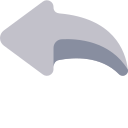
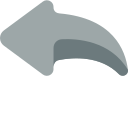
removed unnecessary png

diff --git a/pages/settings/about/index.js b/pages/settings/about/index.js
@@ -13,7 +13,7 @@ const AboutUs = () => {
         <Heading1>About Glow</Heading1>
         <Link href="/settings">
           <a className={styles.doneLink}>
-            <img src="/buttonIcons/reply1.png" />
+            <img src="/buttonIcons/reply.png" />
           </a>
         </Link>
         <img src="/pageBackgrounds/banana.png" className={styles.banana} />

diff --git a/components/FeedbackForm/index.js b/components/FeedbackForm/index.js
@@ -13,7 +13,7 @@ const FeedbackForm = () => {
     <form className={styles.container} action="/settings" mode="post">
       <Link href="/settings">
         <a className={styles.doneLink}>
-          <img src="/buttonIcons/reply1.png" />
+          <img src="/buttonIcons/reply.png" />
         </a>
       </Link>
       <label htmlFor="subject">Subject</label>

diff --git a/components/ChangePasswordForm/index.js b/components/ChangePasswordForm/index.js
@@ -29,7 +29,7 @@ const ChangePasswordForm = () => {
     <form className={styles.container}>
       <Link href="/settings">
         <a className={styles.doneLink}>
-          <img src="/buttonIcons/reply1.png" />
+          <img src="/buttonIcons/reply.png" />
         </a>
       </Link>
       <input style={{ display: "none" }} autoComplete="email" />

diff --git a/components/ChangeGoalForm/index.js b/components/ChangeGoalForm/index.js
@@ -32,7 +32,7 @@ const ChangeGoalForm = ({ user }) => {
     <div className={styles.container}>
       <Link href="/settings">
         <a className={styles.doneLink}>
-          <img src="/buttonIcons/reply1.png" />
+          <img src="/buttonIcons/reply.png" />
         </a>
       </Link>
       <div className={styles.numberPickerContainer}>

diff --git a/components/SettingsTopInfo/index.js b/components/SettingsTopInfo/index.js
@@ -13,7 +13,7 @@ const SettingsTopInfo = ({ user }) => {
     <div className={styles.container}>
       <Link href="/profile">
         <a className={styles.doneLink}>
-          <img src="/buttonIcons/reply1.png" />
+          <img src="/buttonIcons/reply.png" />
         </a>
       </Link>
       <Heading2>Your Profile</Heading2>

diff --git a/components/DoneButton/index.js b/components/DoneButton/index.js
@@ -7,7 +7,7 @@ const DoneButton = ({ href, top, right }) => {
     <>
       <Link href={href}>
         <a className={styles.doneLink}>
-          <img src="/buttonIcons/reply1.png" />
+          <img src="/buttonIcons/reply.png" />
         </a>
       </Link>
     </>
